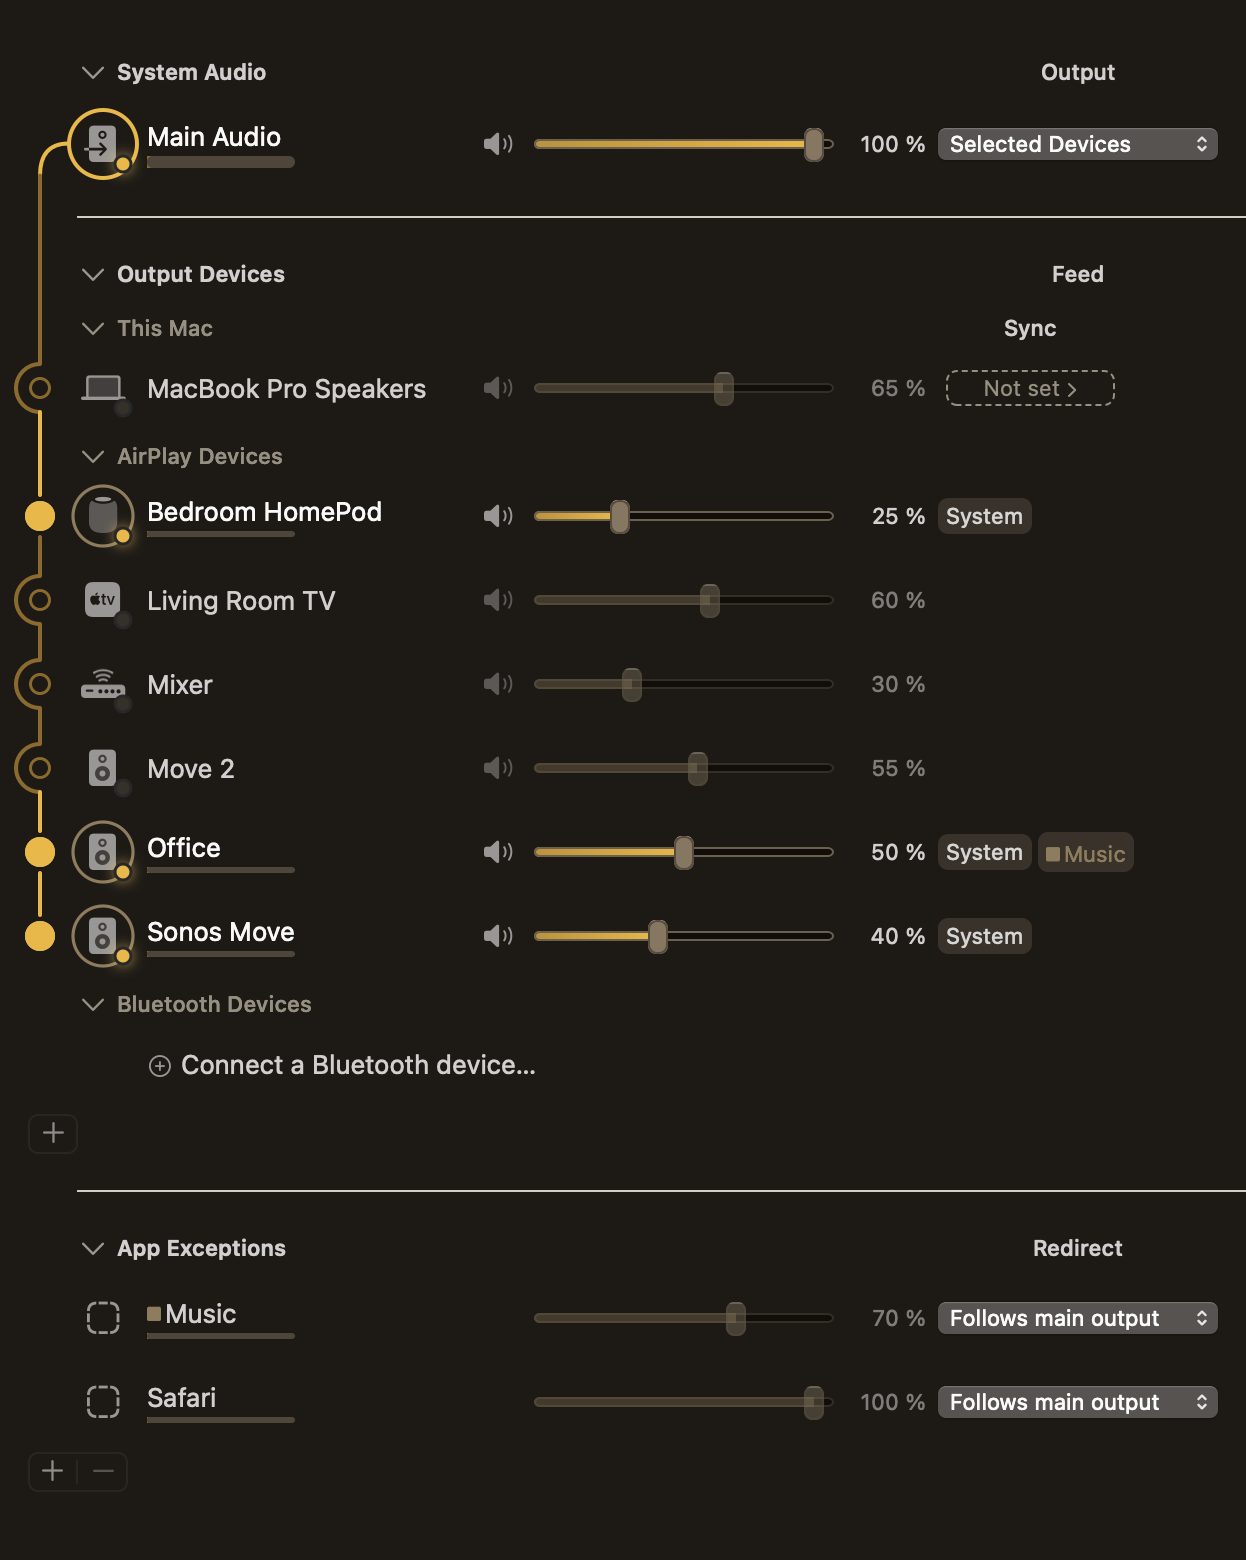
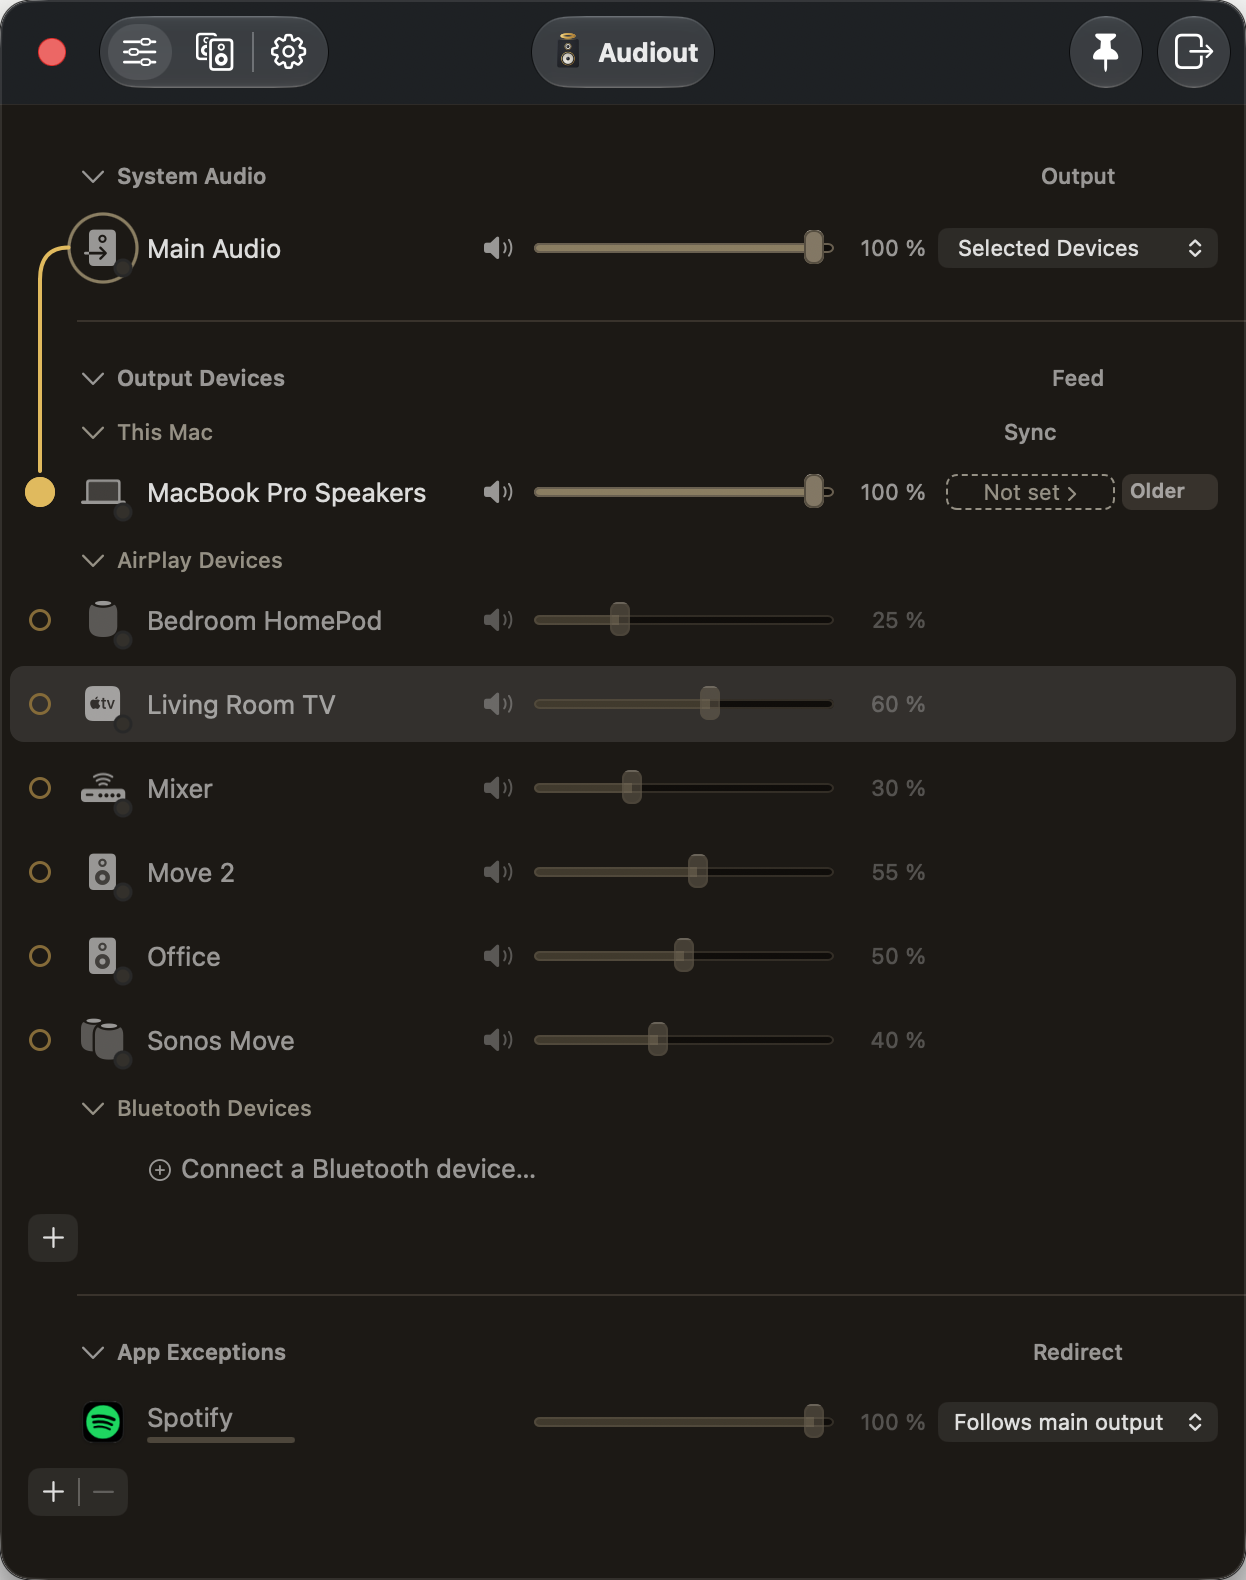
Use live window captures for the README screenshots
Replaces the offscreen renders with captures of the real app: a signed
build running the mock backend, its surface pinned as a window, caught in
both themes. These carry the chrome the offscreen renders cannot — the
toolbar, the title with the mark, the pin and power controls, the rounded
corners — which is most of what makes a screenshot read as a real Mac app.

Framed to the window's exact bounds so nothing behind it bleeds in, and
declared at its native 623pt width so the 2x image stays crisp rather than
being upscaled.

The mock backend was deliberate, not a shortcut: its speaker names are
readable ones rather than whatever is on the network, and it keeps the
capture away from real hardware. Nothing was selected in the shots because
routing state lives in a folder shared by every bundle id, and lighting the
signal rail would have meant writing mock device IDs into the same file a
live test was reading.

diff --git a/README.md b/README.md
@@ -25,7 +25,7 @@ volume fader for each room, saved groups, and a phone remote.
 <picture>
   <source media="(prefers-color-scheme: dark)" srcset="docs/media/popover-dark.png">
   <source media="(prefers-color-scheme: light)" srcset="docs/media/popover-light.png">
-  <img src="docs/media/popover-dark.png" alt="The Audiout menu-bar mixer: Main Audio at the top, then a fader, mute and output picker for each speaker in the house." width="720">
+  <img src="docs/media/popover-dark.png" alt="The Audiout menu-bar mixer: Main Audio at the top, then a fader, mute and output picker for each speaker in the house." width="623">
 </picture>
 
 </div>
